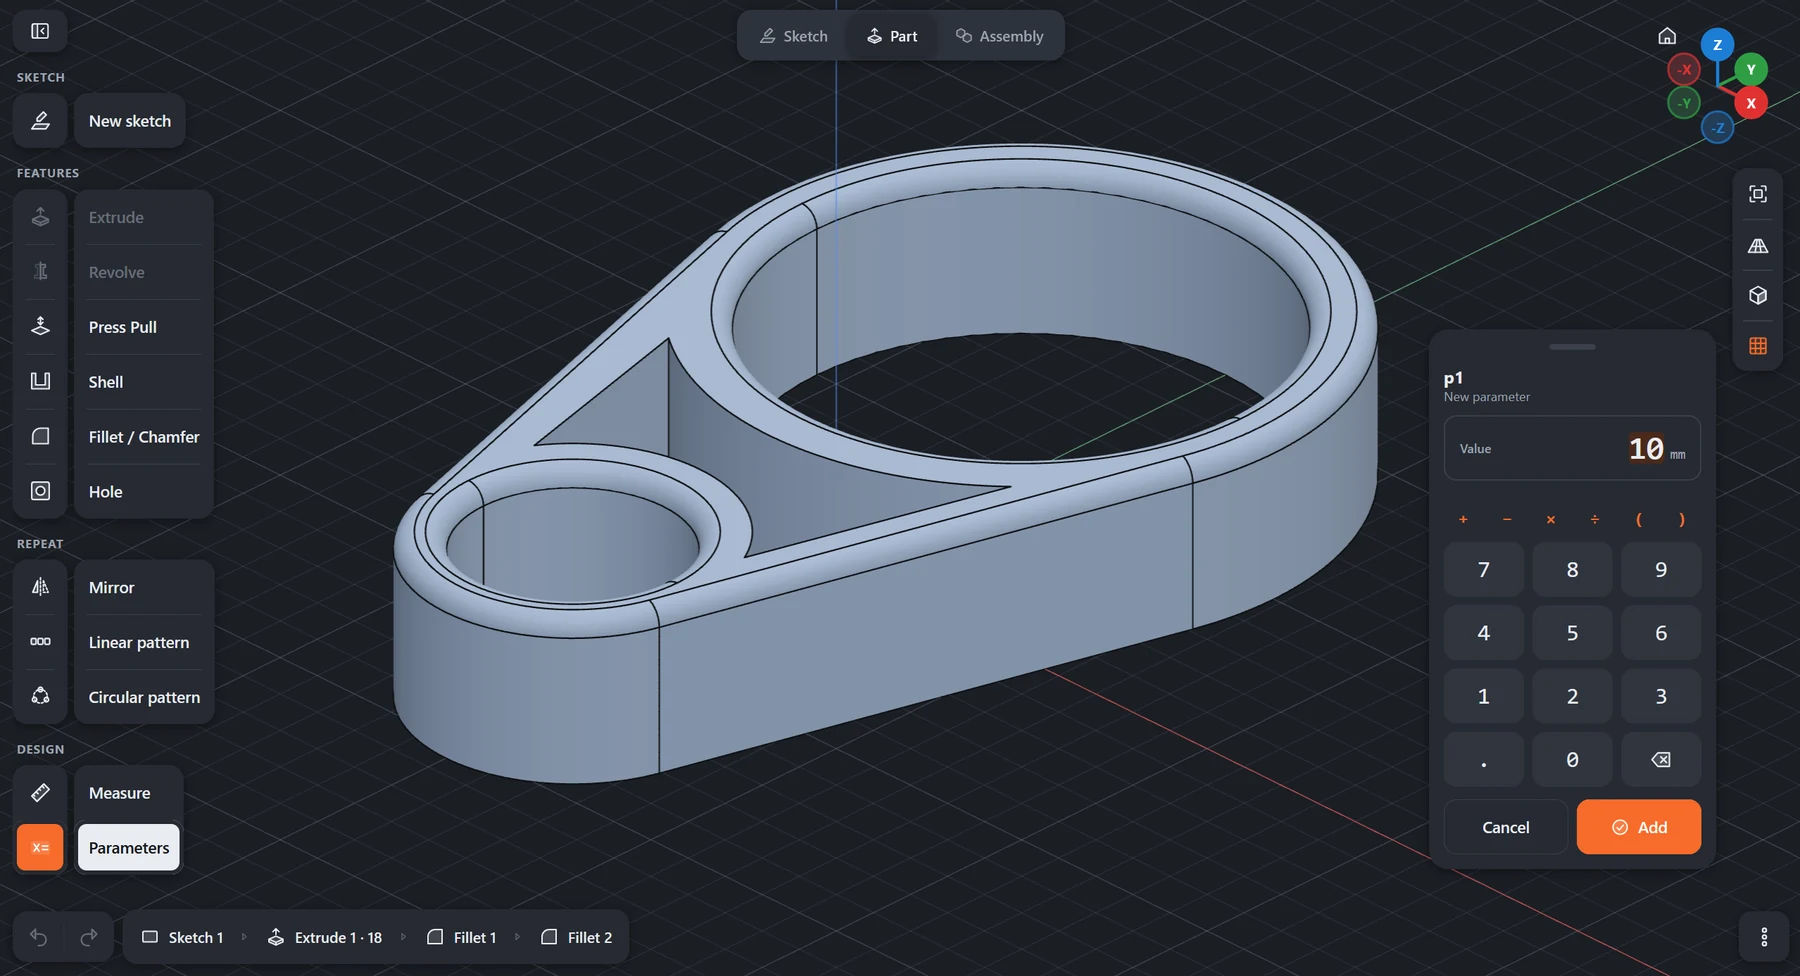
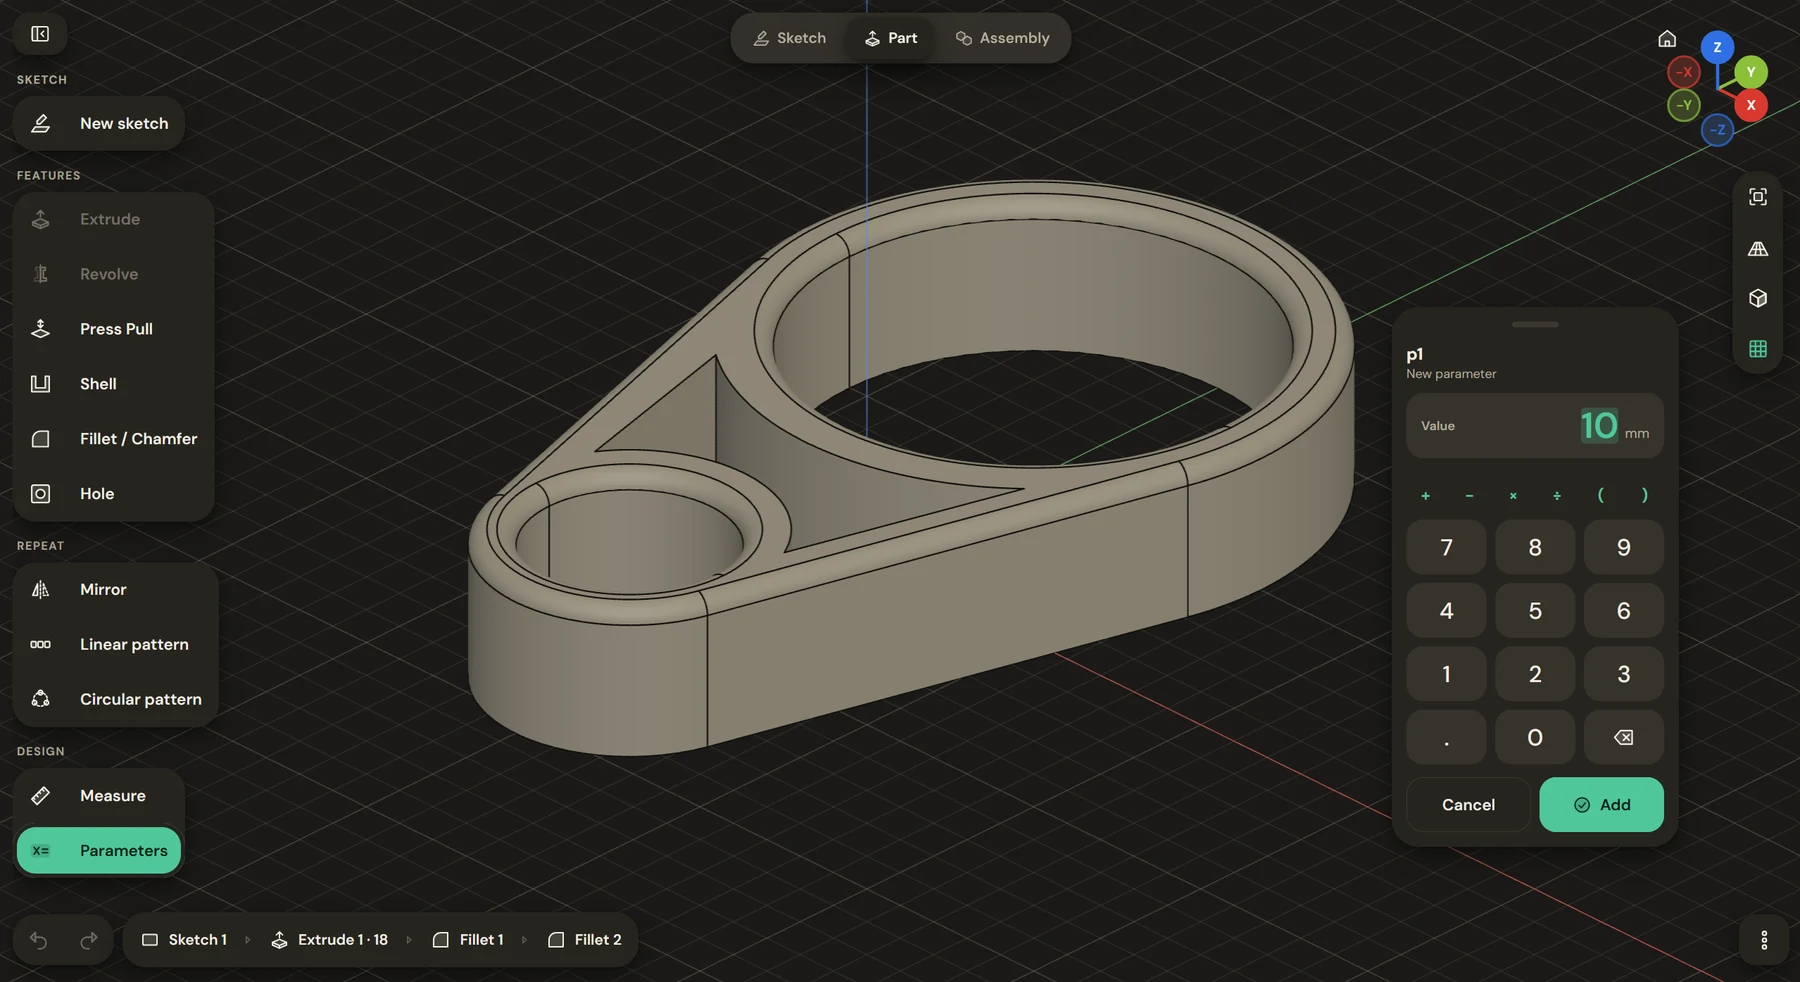
Update the README screenshot

diff --git a/README.md b/README.md
@@ -10,7 +10,7 @@
 </p>
 
 <p align="center">
-  <img src="docs/screenshot.webp" width="900" alt="WaffleCAD in the dark theme: a filleted link with two rings joined by a ribbed web, a new parameter typed on the keypad, the tools in one card per section and the history in one bar">
+  <img src="docs/screenshot.webp" width="900" alt="WaffleCAD in the Papier Nuit theme: a filleted link with two rings joined by a ribbed web, a new parameter typed on the keypad, the tools in one card per section and the history in one bar">
 </p>
 
 ## Features
